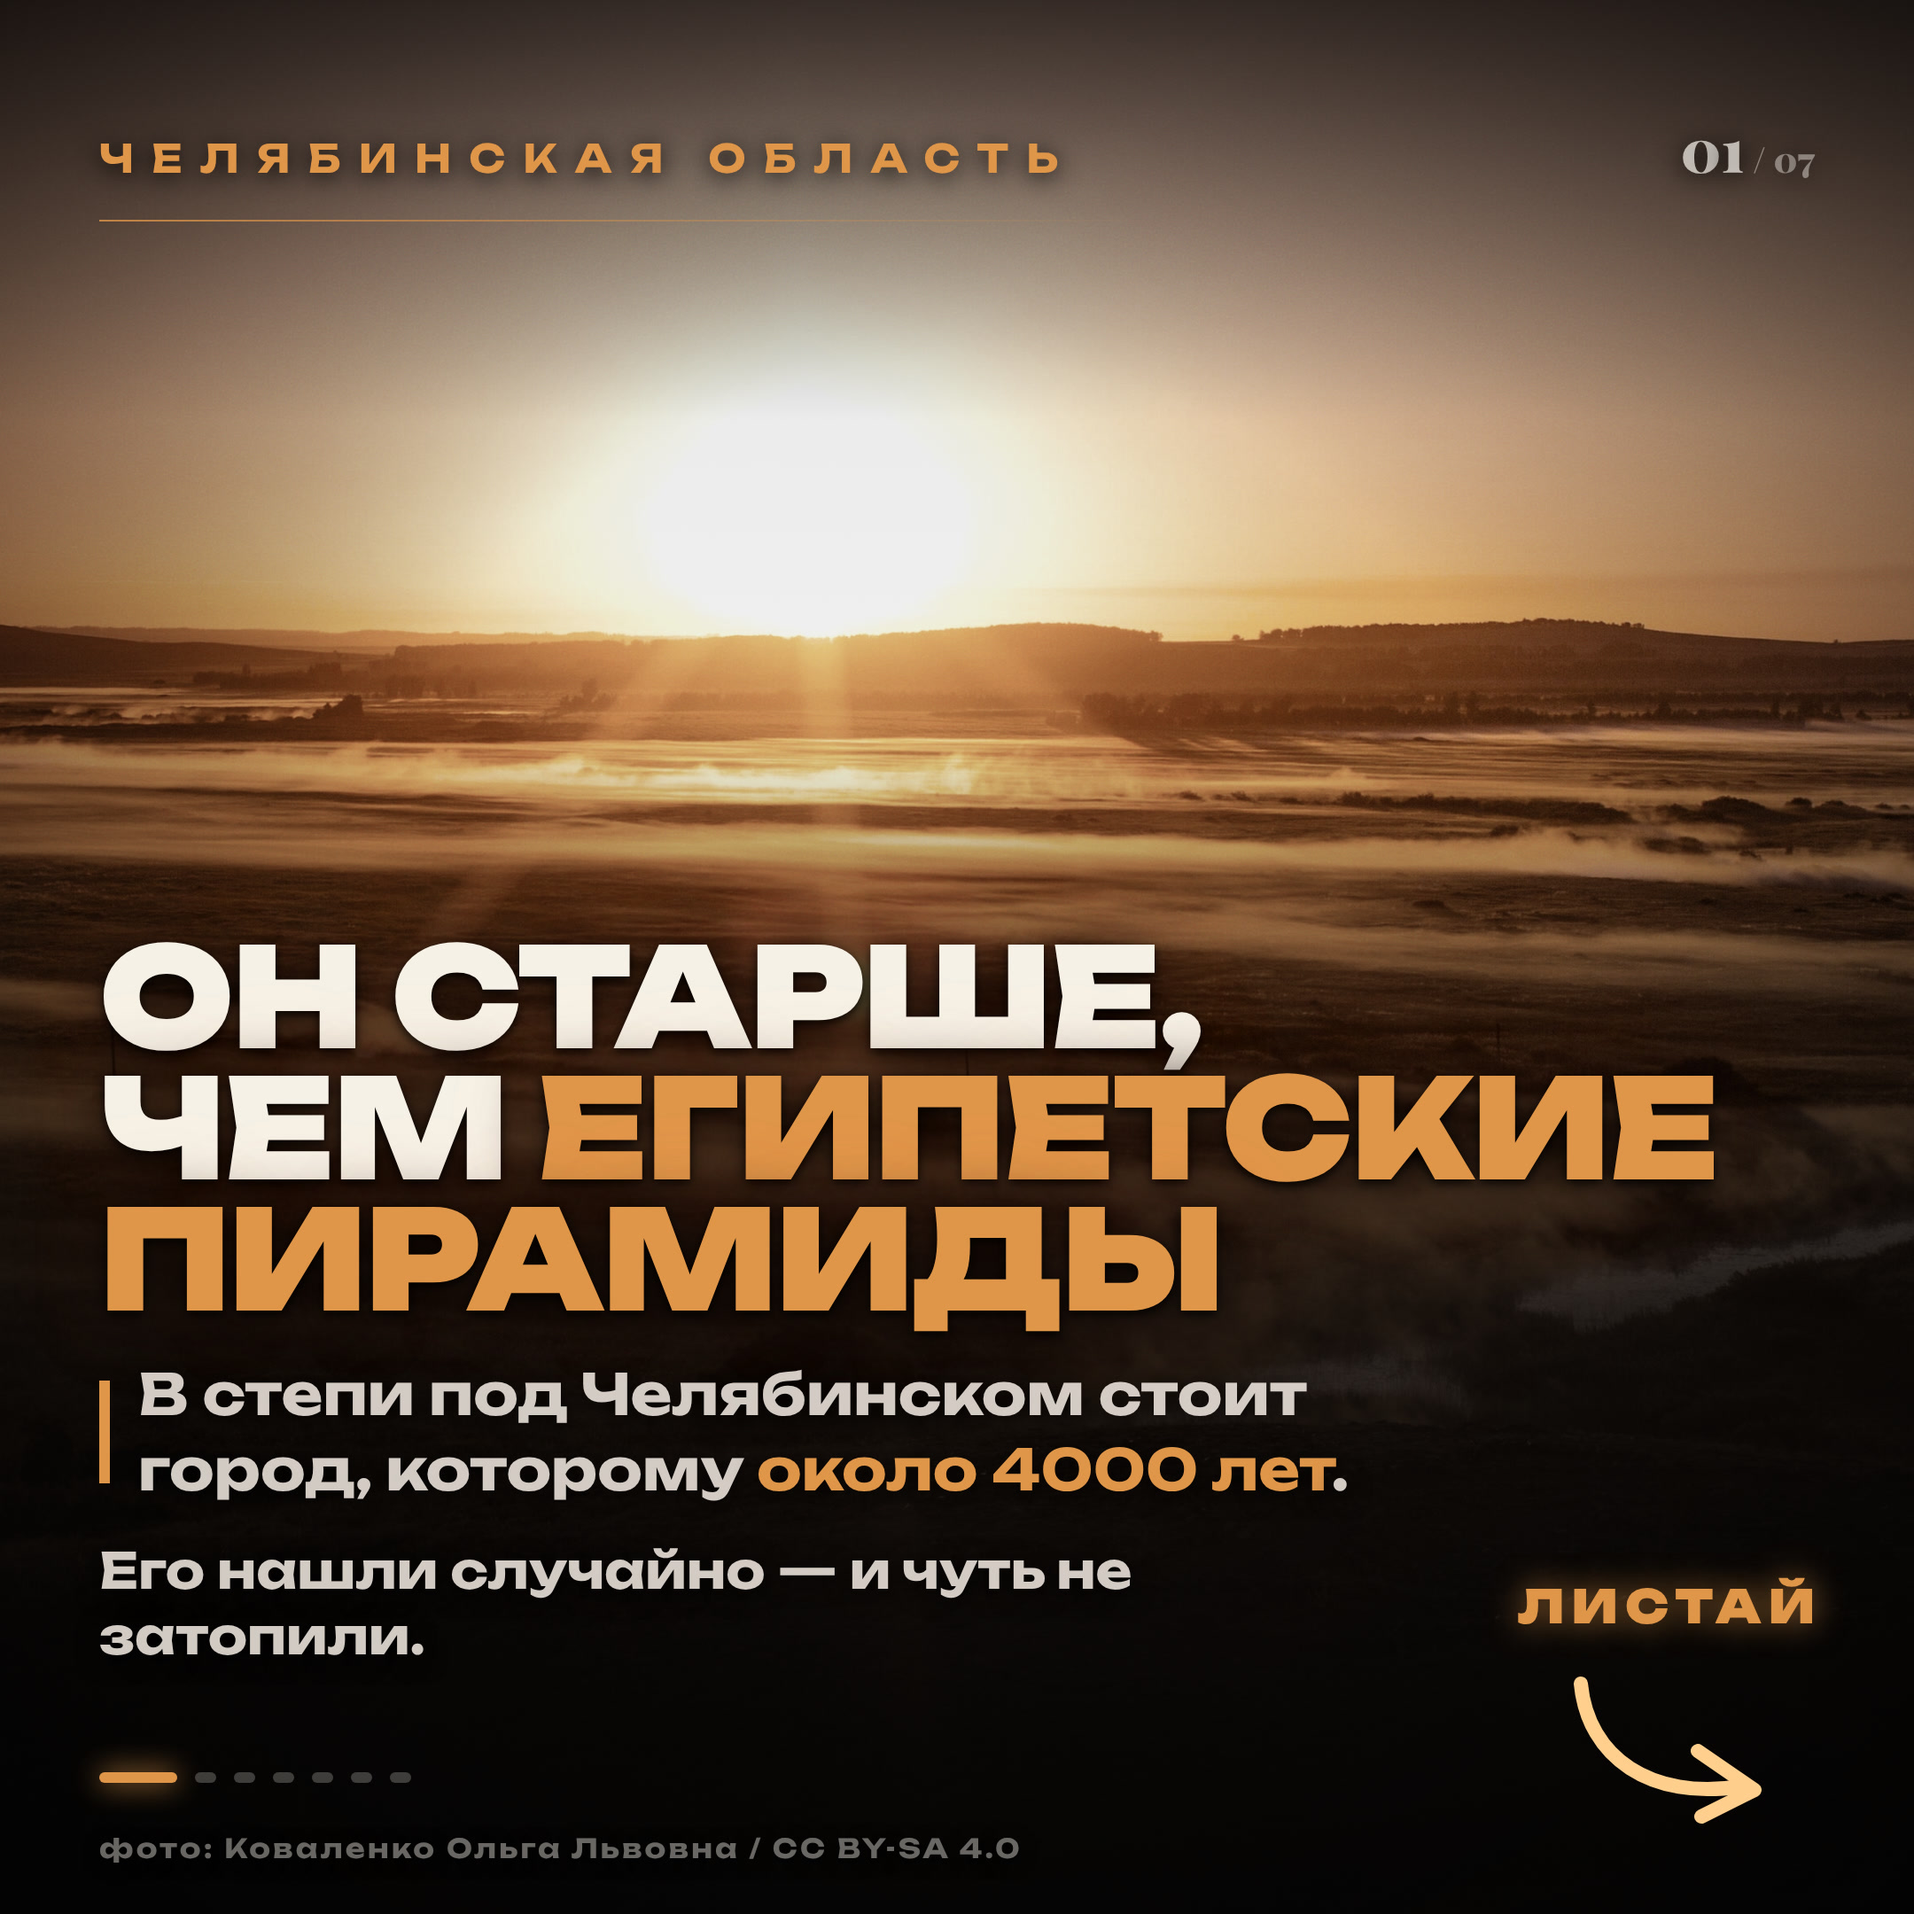
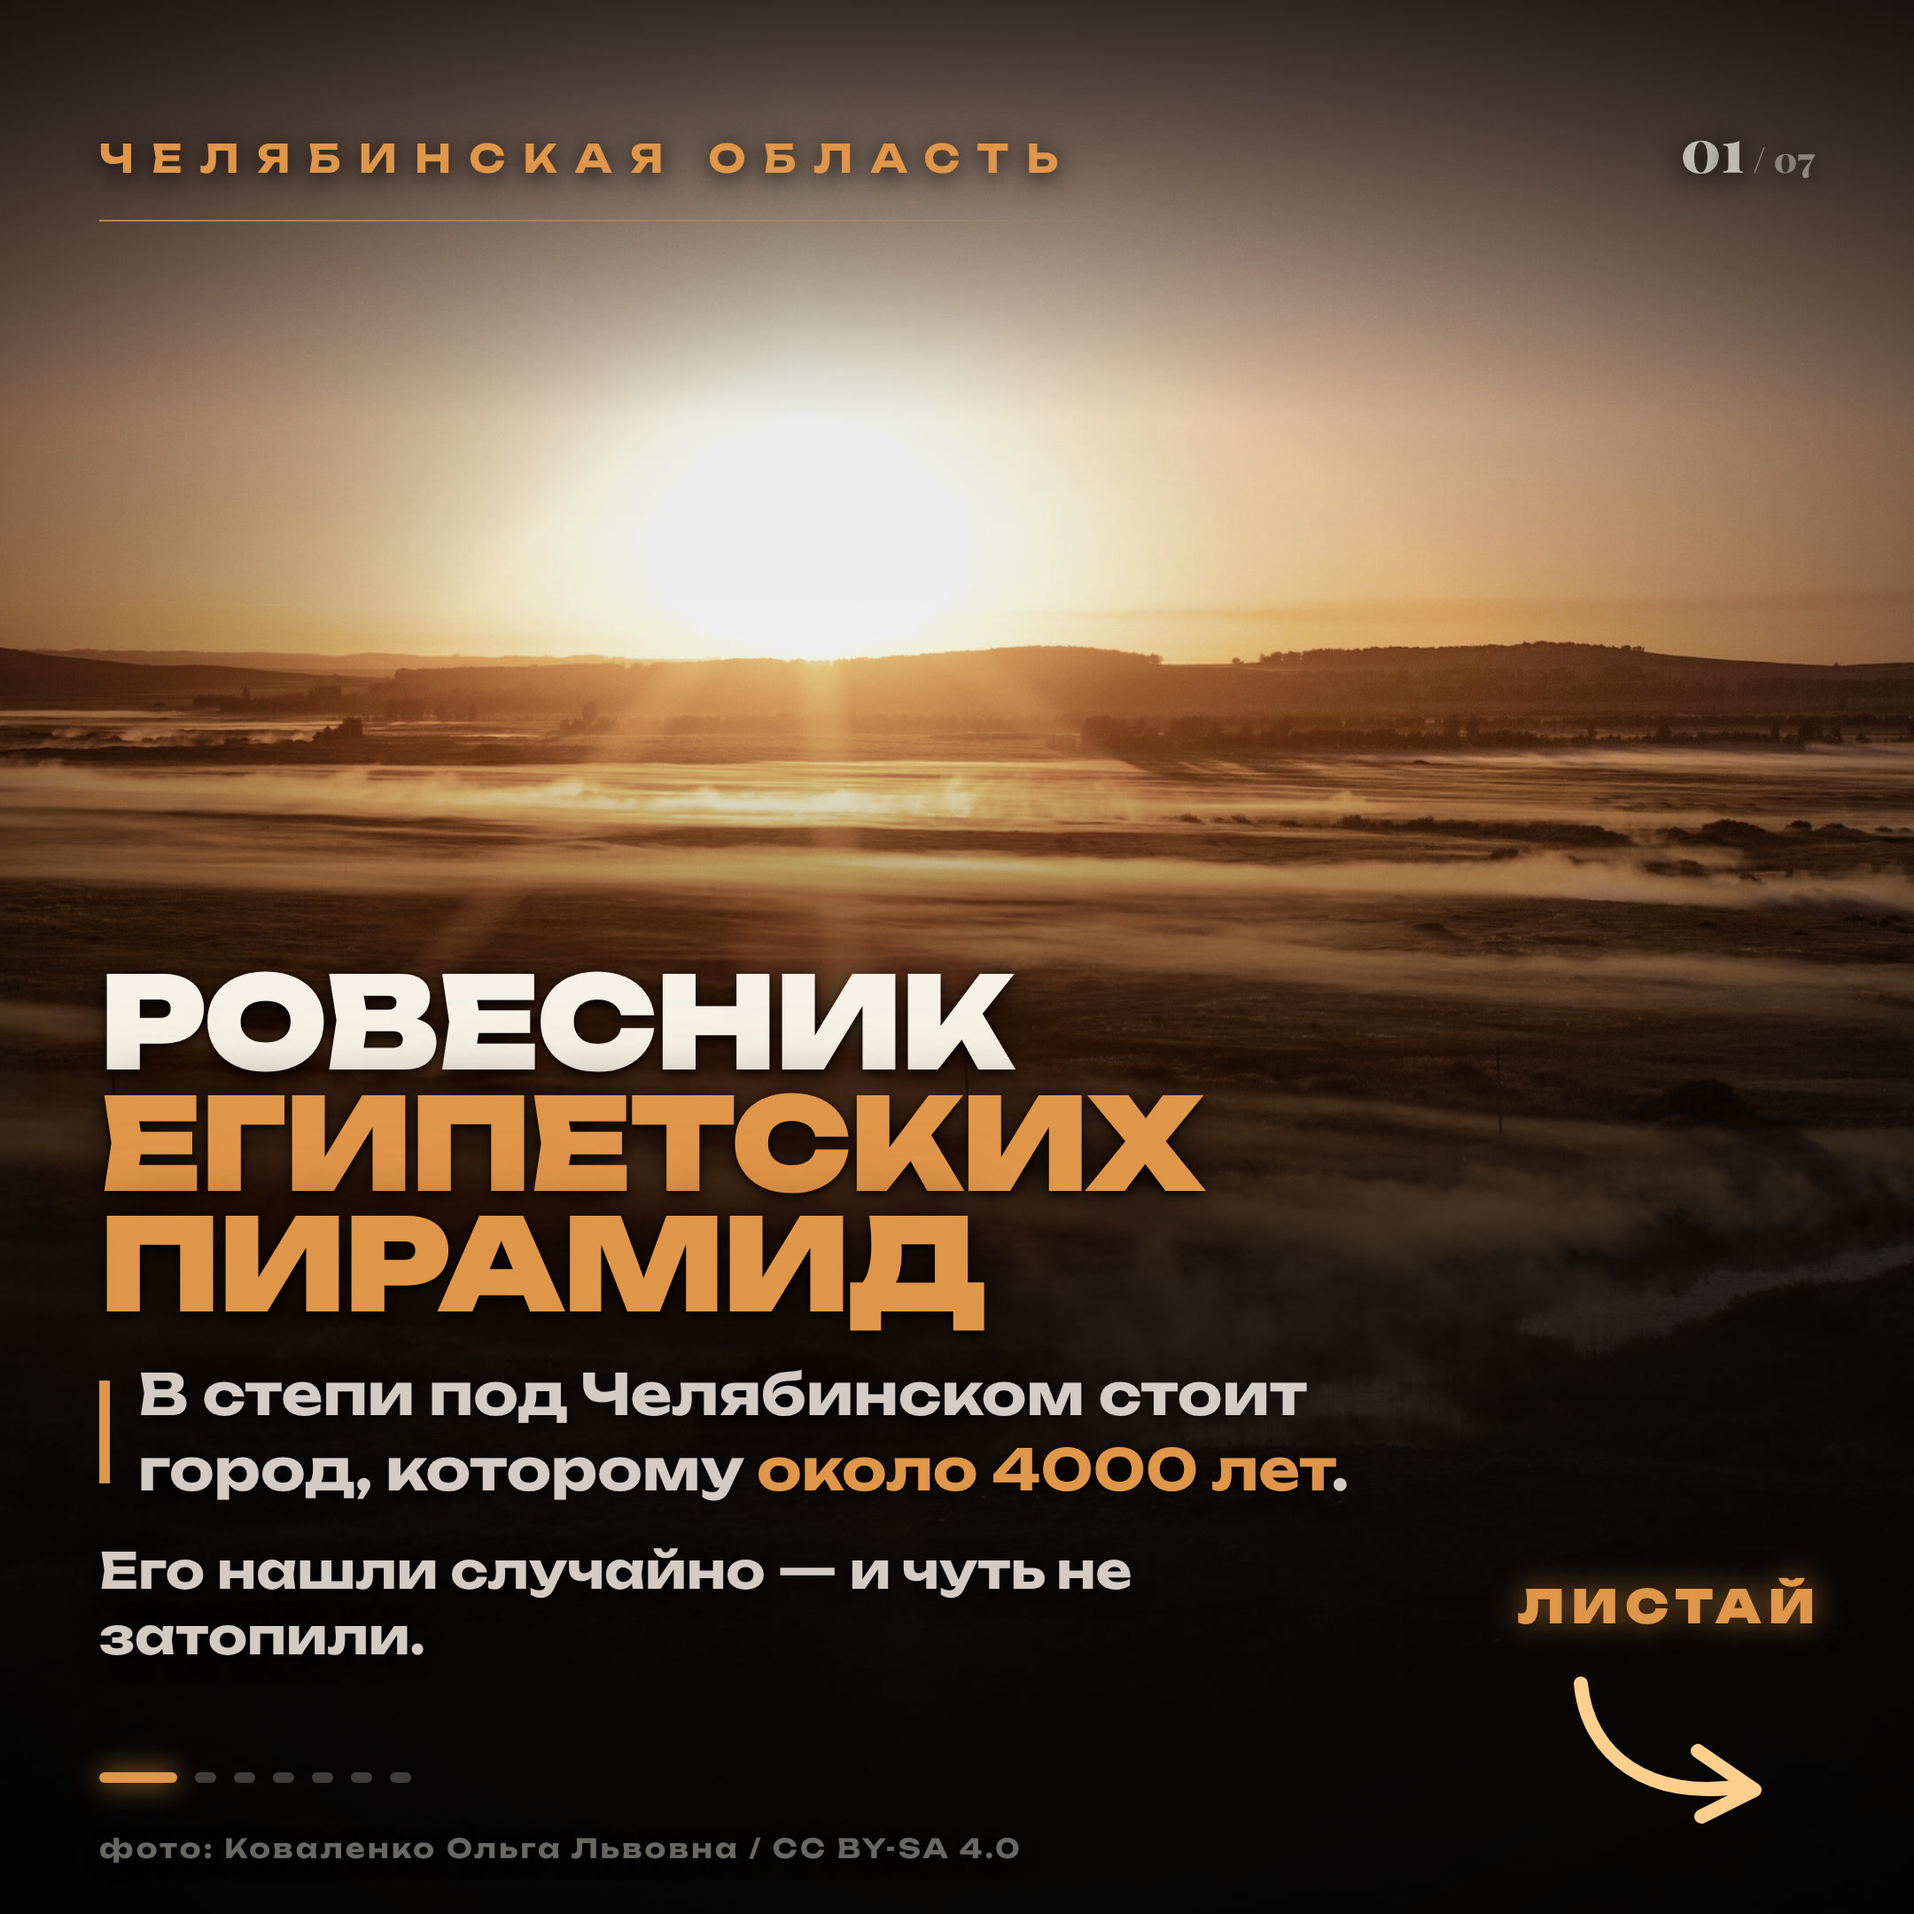
Correct slide 1 and the caption: Arkaim is contemporary with the pyramids, not older
Giza dates to roughly 2560 BC; Arkaim's Sintashta-culture dates run
c. 2150-1650 BC. So it postdates the pyramids by a few centuries, not
predates them. Wikipedia's own framing is "the same age as Stonehenge
and the Egyptian pyramids" — the honest claim is same era, not older.
Changed the slide 1 headline from "ОН СТАРШЕ" to "РОВЕСНИК" and matched
the caption's hook line to it.

Claude-Session: https://claude.ai/code/session_015S5gnY7kt7pUwCK7WfTNUT

Changed region(s): [[0.0, 0.2792, 1.0, 0.7134], [0.9306, 0.5583, 1.0, 0.5894]]

diff --git a/arkaim-carousel/src/slides/Slide1.tsx b/arkaim-carousel/src/slides/Slide1.tsx
@@ -9,10 +9,10 @@ export const Slide1: React.FC = () => (
     <CityPhoto src="dawn.jpg" focus="50% 38%" scale={1.1} />
     <Slate index={1} total={7} label="Челябинская область" />
     <Lower>
-      <Headline size={78}>
-        ОН СТАРШЕ,
+      <Headline size={72}>
+        РОВЕСНИК
         <br />
-        ЧЕМ <Accent>ЕГИПЕТСКИЕ ПИРАМИДЫ</Accent>
+        <Accent>ЕГИПЕТСКИХ ПИРАМИД</Accent>
       </Headline>
       <div style={{ display: "flex", alignItems: "center", gap: 16 }}>
         <div style={{ width: 6, height: 58, background: theme.accent }} />
